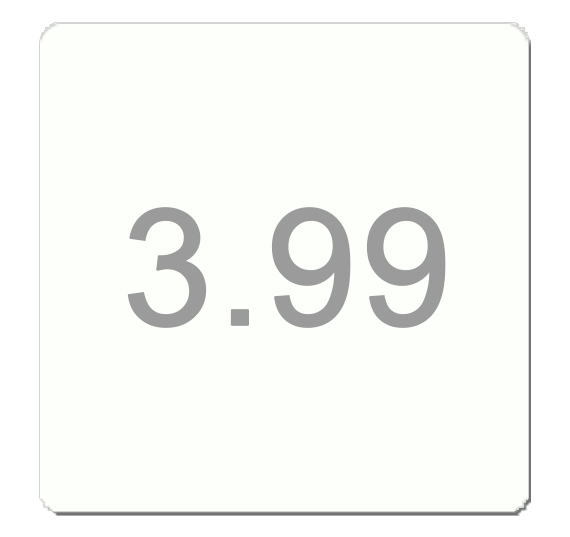
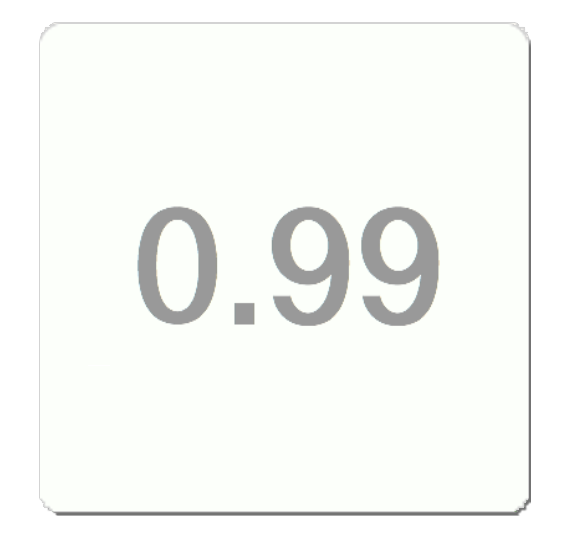
Changed delivery cost to $.99

diff --git a/ntemplates/page/home.html b/ntemplates/page/home.html
@@ -46,7 +46,7 @@
   </div>
   <div class="benefit">
     <img class="benefit-img" src="{% static 'imgs/intro/' %}fee.png" />
-    <div class="benefit-title">Only $3.99 per order</div>
+    <div class="benefit-title">Only $0.99 per order</div>
     <div class="benefit-description">Save time and energy, shop in the comfort of your home!</div>
   </div>
 </div>
